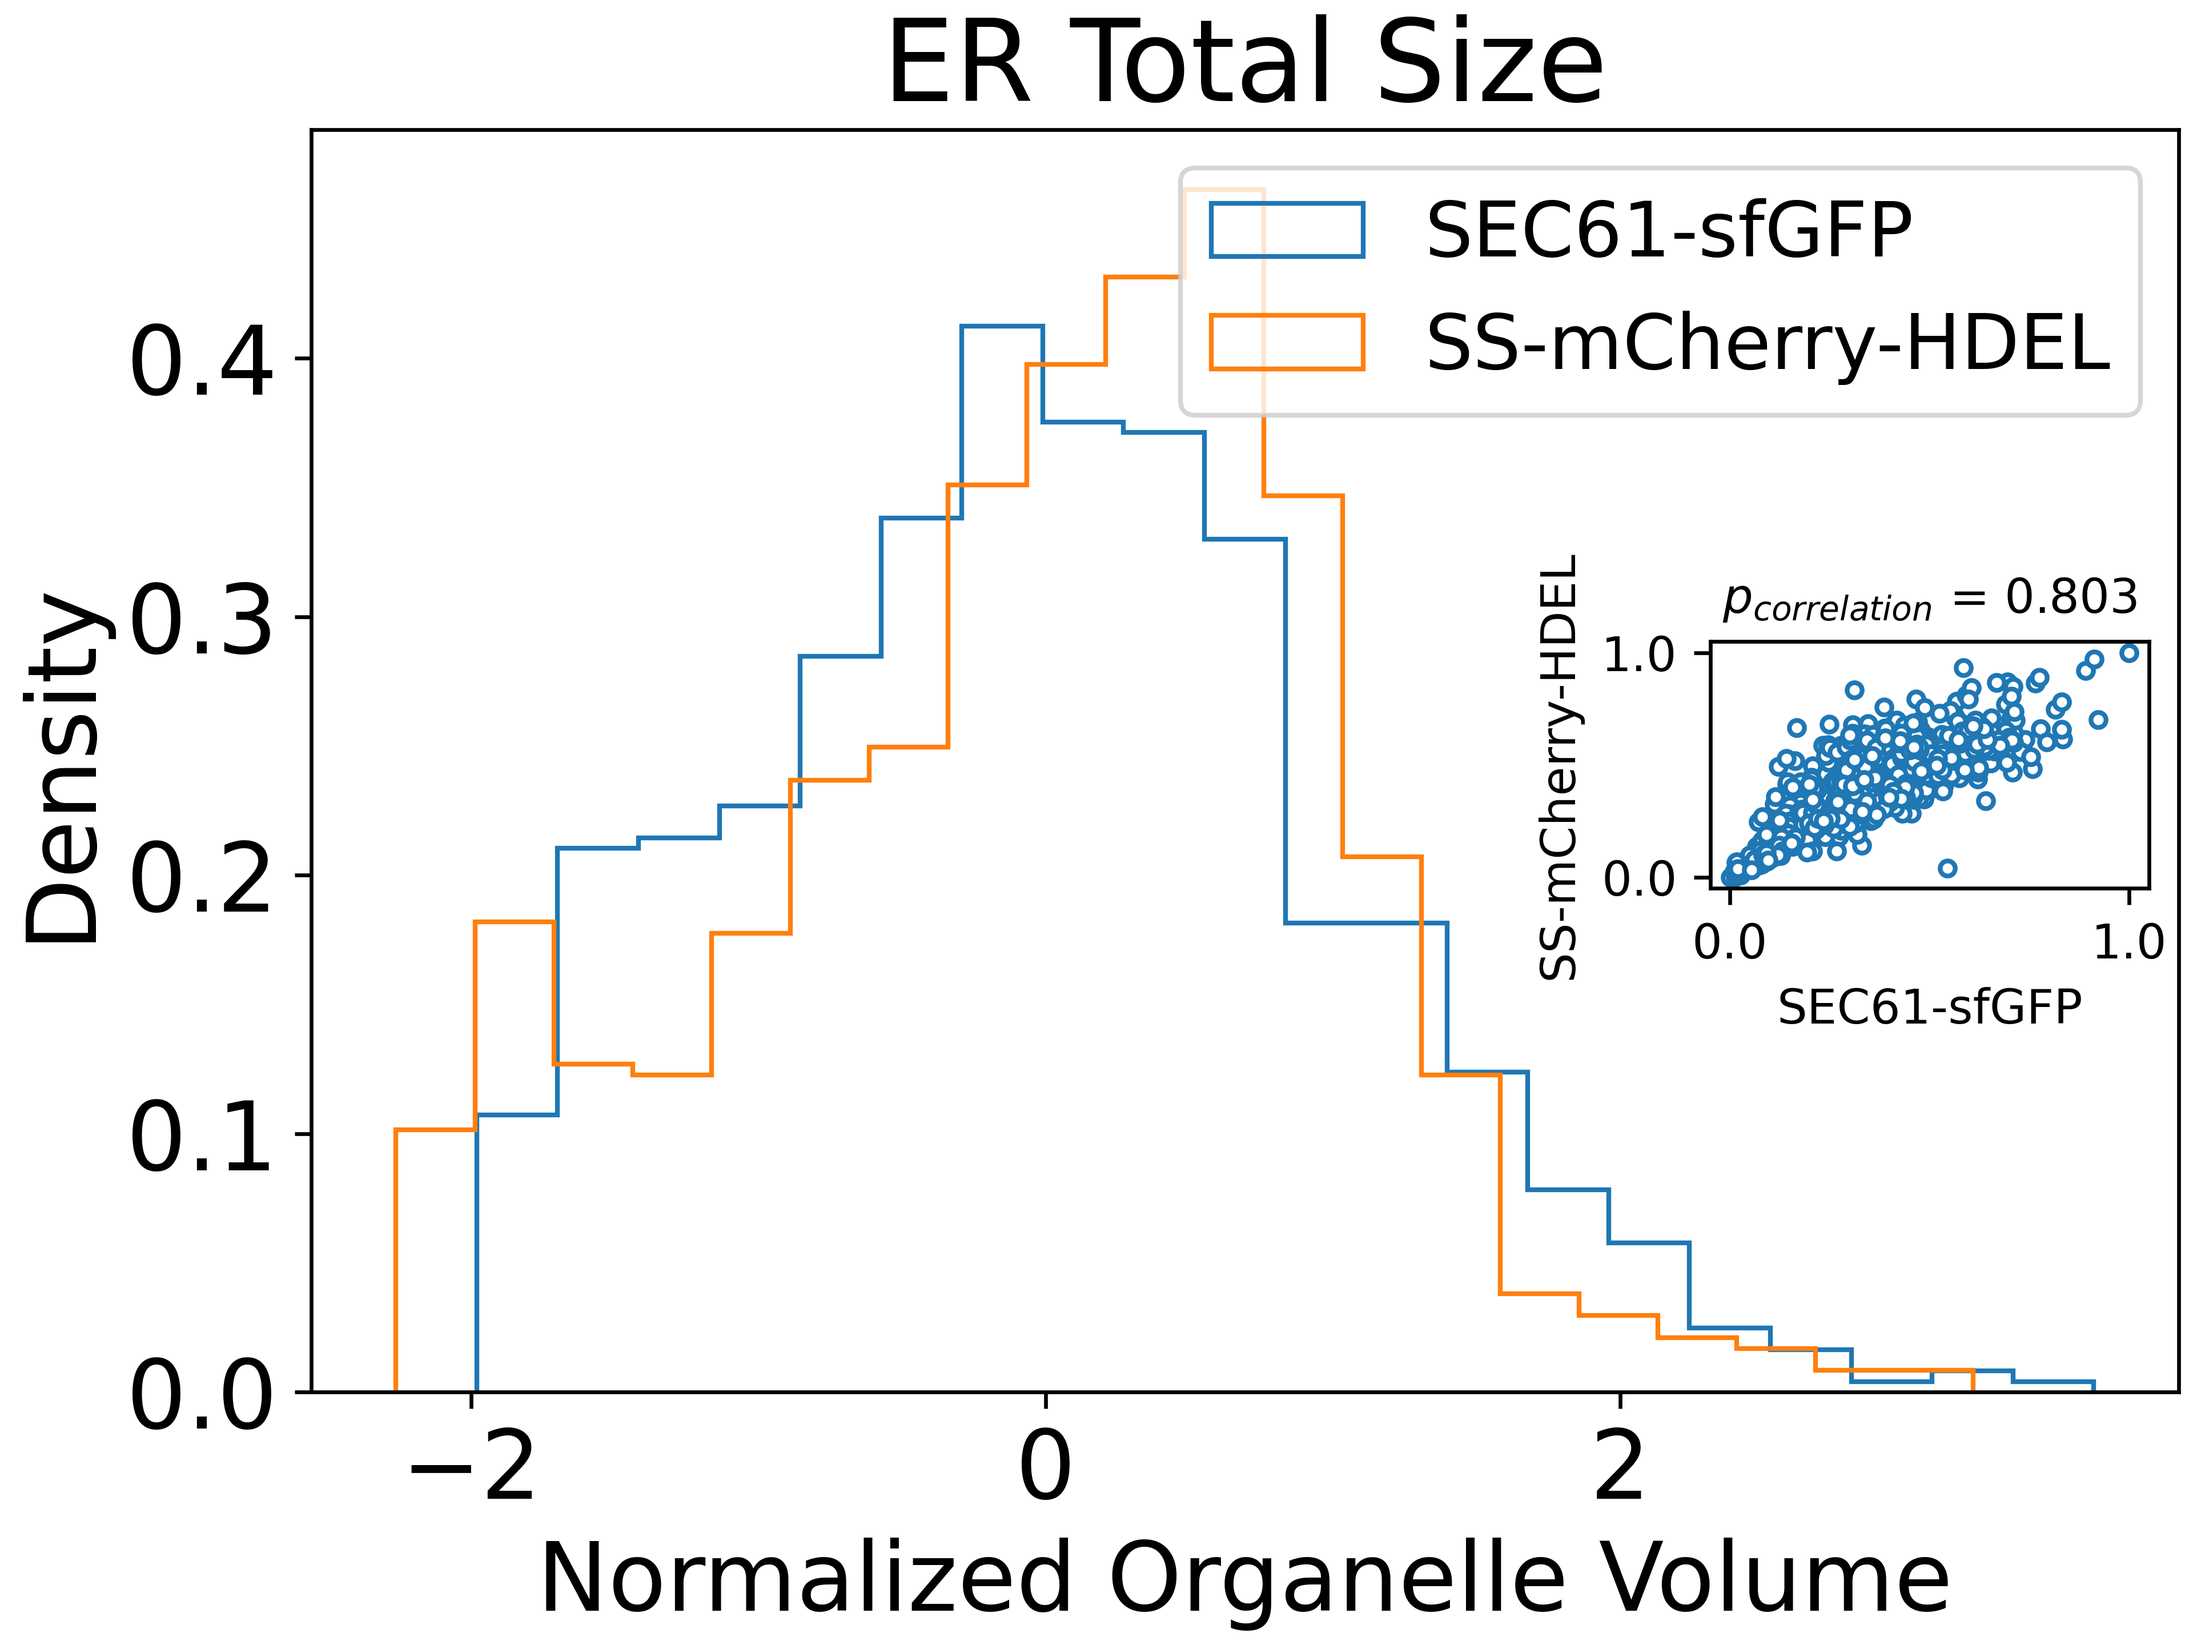
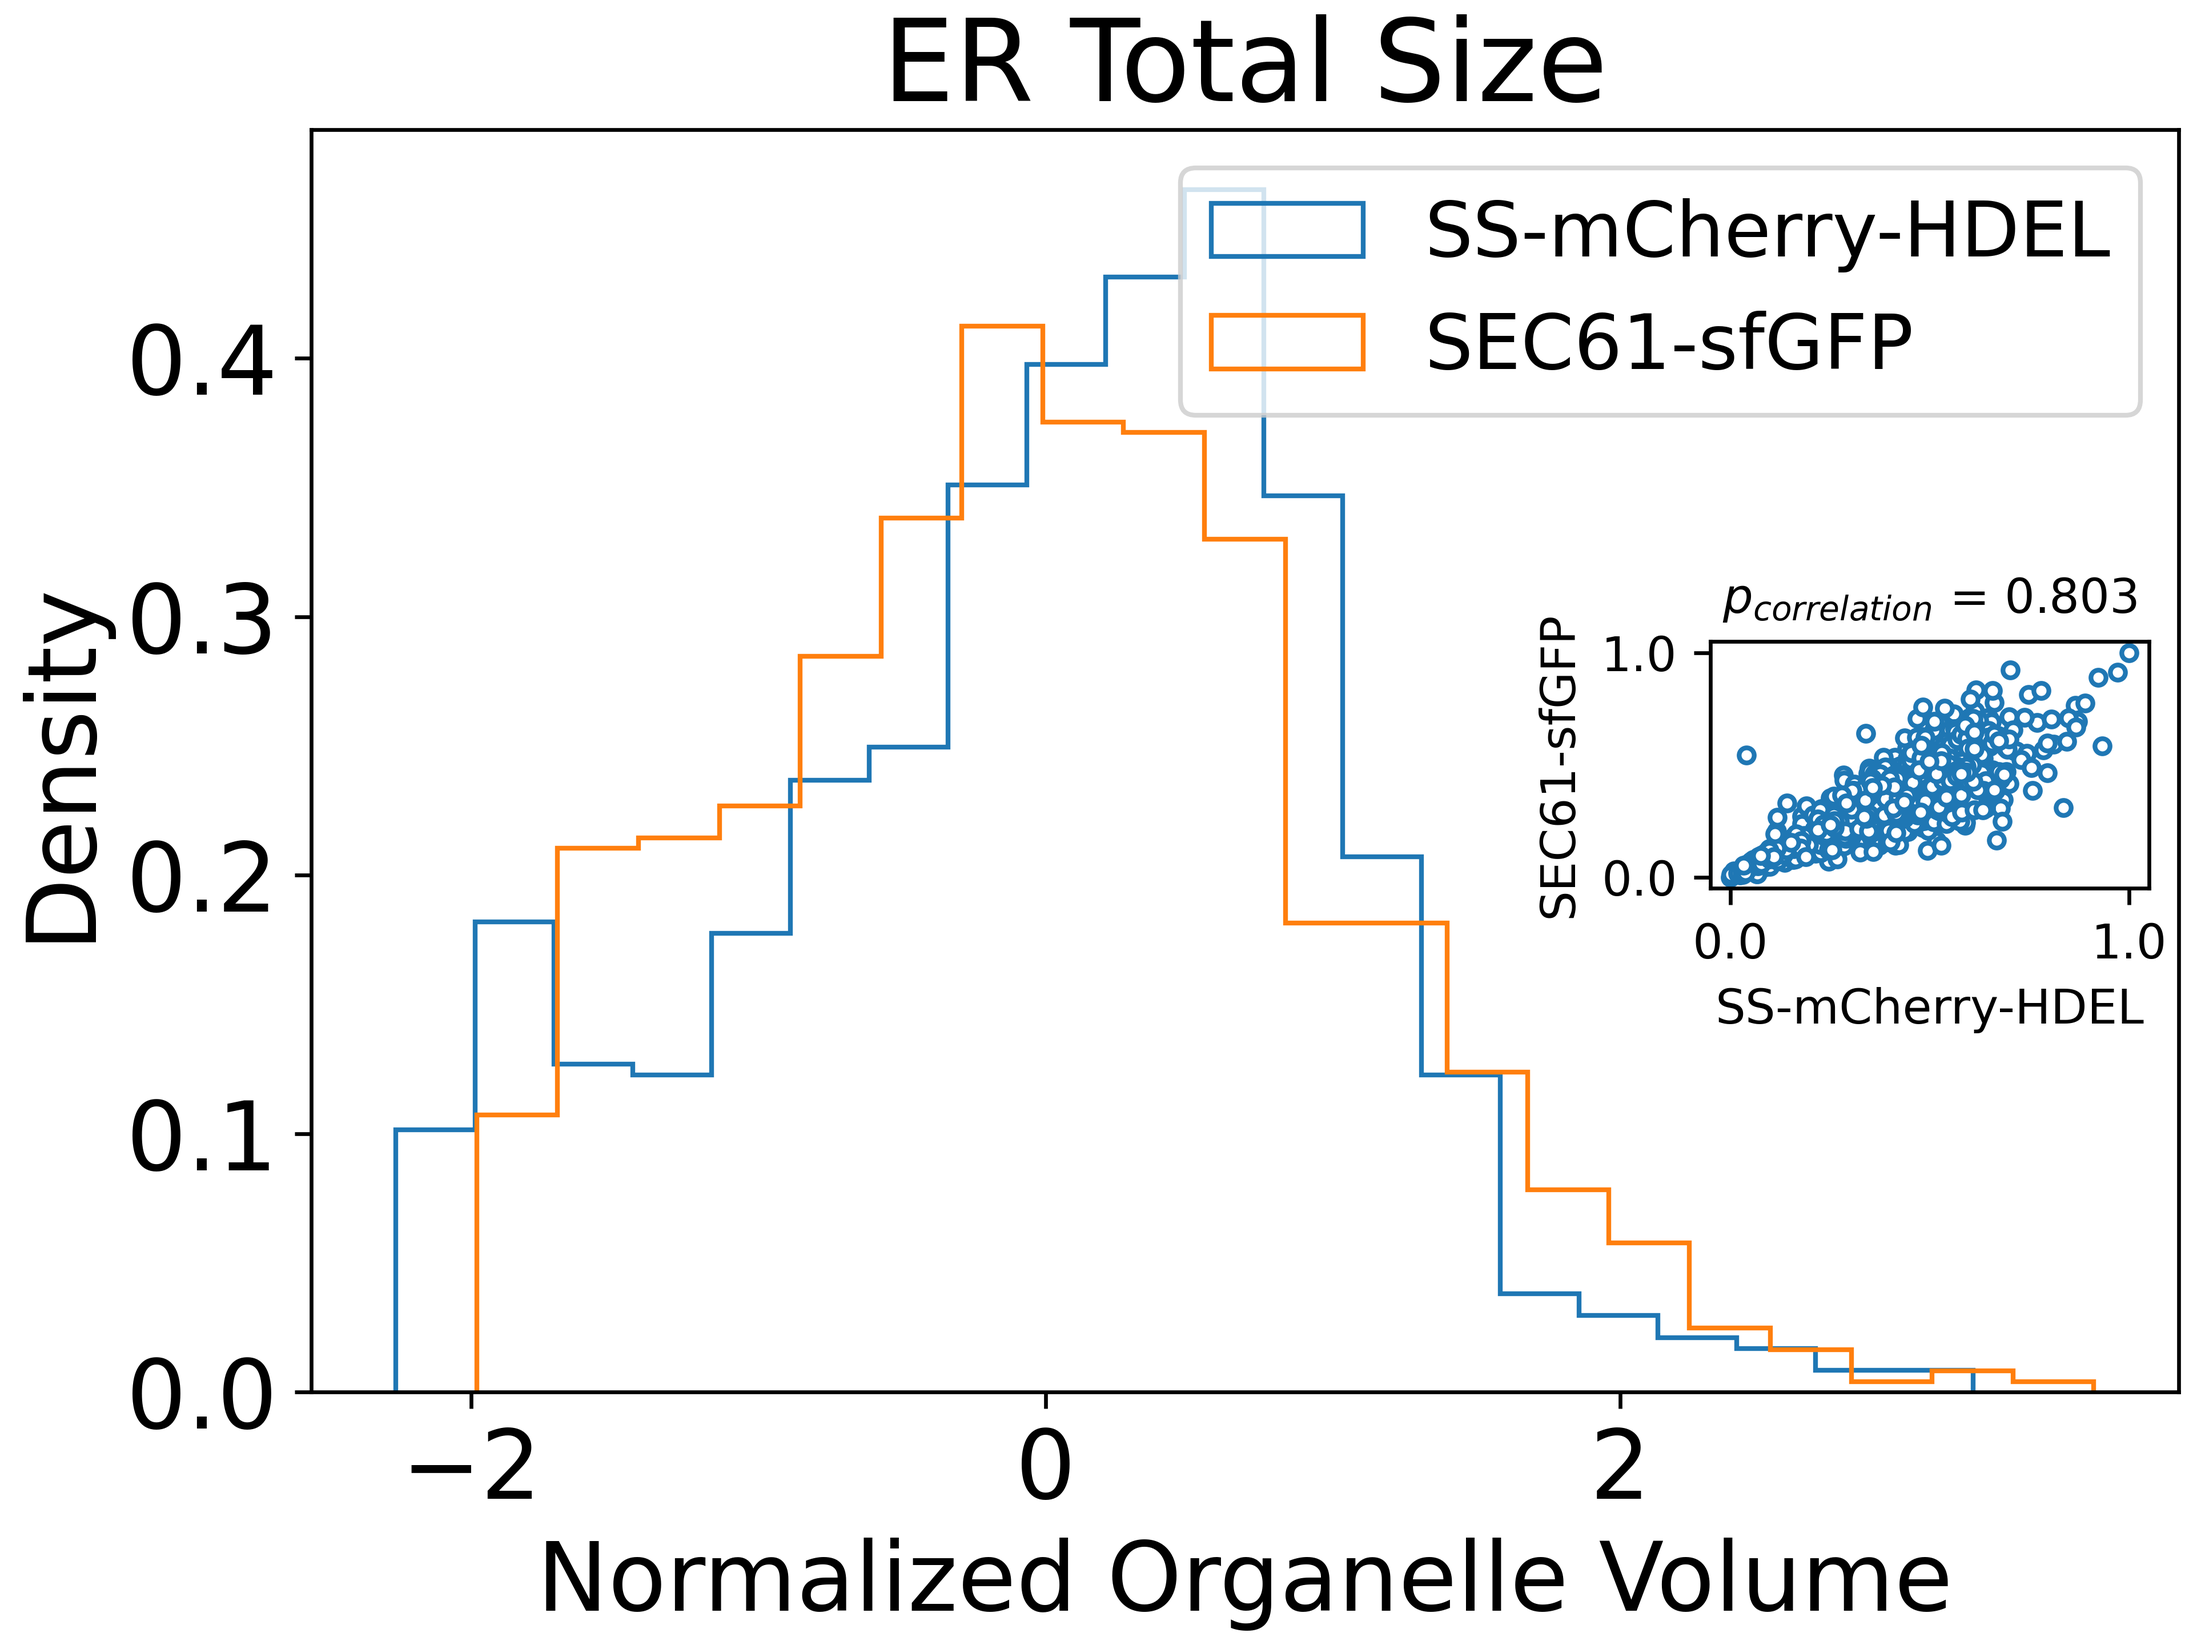
submit rebuttal

diff --git a/scripts/plot/csv2figures.py b/scripts/plot/csv2figures.py
@@ -1116,13 +1116,75 @@ import seaborn as sns
 #     dfs.append(df)
 # dfs = pd.concat(dfs,ignore_index=True)
 
-dfs = df_bycell.loc[df_bycell["folder"].eq("EYrainbow_glucose_largerBF") & df_bycell["organelle"].eq("ER"),["condition","cell-volume"]]
+dfs = df_bycell.loc[
+                    df_bycell["folder"].eq("EYrainbow_glucose_largerBF")
+                  & df_bycell["organelle"].eq("ER"),
+                    ["condition","cell-volume"]
+                ]
 dfs = dfs.reset_index().drop("index",axis=1)
 dfs["cell-volume"] = np.log(dfs["cell-volume"])
 for orga in [*organelles,"non-organelle"]:
-    dfs[orga] = np.log(df_bycell.loc[df_bycell["folder"].eq("EYrainbow_glucose_largerBF") & df_bycell["organelle"].eq(orga),"total"].reset_index().drop("index",axis=1))
+    dfs[orga] = np.log(
+                        df_bycell.loc[
+                                      df_bycell["folder"].eq("EYrainbow_glucose_largerBF") 
+                                    & df_bycell["organelle"].eq(orga),"total"
+                                ].reset_index().drop("index",axis=1)
+                    )
 dfs.replace([np.inf, -np.inf], np.nan, inplace=True)
 dfs.dropna(axis=0,inplace=True)
+
+x = dfs["non-organelle"].values.reshape(-1,1)
+y = dfs["cell-volume"].values
+fitter.fit(x,y)
+print("without exclusion", f"pooled" ,fitter.coef_, fitter.intercept_)
+# >>> without exclusion pooled [0.42146724] 3.5076067960600694
+dfs = dfs[dfs['non-organelle']>2]
+x = dfs["non-organelle"].values.reshape(-1,1)
+y = dfs["cell-volume"].values
+fitter.fit(x,y)
+print("with exclusion", f"pooled" ,fitter.coef_, fitter.intercept_)
+# >>> with exclusion pooled [0.50221085] 3.142924975964997
+
+x = dfs["non-organelle"].values
+y = dfs["cell-volume"].values
+res = scipy.odr.ODR(
+                    scipy.odr.Data(x,y),
+                    scipy.odr.unilinear
+                ).run().beta[0]
+print("without exclusion", f"symmetric" , res)
+# >>> without exclusion symmetric 0.45422110021931483
+threhold1 = np.percentile(dfs['non-organelle'],10) 
+threhold2 = np.percentile(dfs['cell-volume'],10) 
+dfs = dfs[dfs['non-organelle']>threhold1]
+dfs = dfs[dfs['cell-volume']>threhold2]
+x = dfs["non-organelle"].values
+y = dfs["cell-volume"].values
+res = scipy.odr.ODR(
+                    scipy.odr.Data(x,y),
+                    scipy.odr.unilinear
+                ).run().beta[0]
+print("with exclusion", f"symmetric" , res)
+
+
+fitter = LinearRegression()
+for cond in np.sort(dfs["condition"].unique()):
+    x = dfs.loc[dfs["condition"].eq(cond),"non-organelle"].values.reshape(-1,1)
+    y = dfs.loc[dfs["condition"].eq(cond),"cell-volume"].values
+    fitter.fit(x,y)
+    print("with exclusion", f"{cond*2/100}% glucose" ,fitter.coef_, fitter.intercept_)
+# >>> without exclusion 0.0% glucose [0.36748129] 3.8123584248286857
+# >>> without exclusion 0.01% glucose [0.48904931] 3.1963293062829417
+# >>> without exclusion 0.1% glucose [0.45168254] 3.447715116047131
+# >>> without exclusion 1.0% glucose [0.65527128] 2.2475956042518463
+# >>> without exclusion 2.0% glucose [0.6174451] 2.477665894757461
+# >>> without exclusion 4.0% glucose [0.66546864] 2.260198088347158
+# >>> 
+# >>> with exclusion 0.0% glucose [0.44245338] 3.4978532063642183
+# >>> with exclusion 0.01% glucose [0.61766572] 2.607062652666553
+# >>> with exclusion 0.1% glucose [0.57374911] 2.913059839803107
+# >>> with exclusion 1.0% glucose [0.708232] 1.988237369816059
+# >>> with exclusion 2.0% glucose [0.69546985] 2.1050524593477573
+# >>> with exclusion 4.0% glucose [0.66886946] 2.243887408369273
 
 df_scambled = dfs[dfs["condition"].eq(100)]
 df_scambled["cell-volume"] = np.random.permutation(df_scambled["cell-volume"])

diff --git a/scripts/rebuttal/csv2figures_2label1organelle.py b/scripts/rebuttal/csv2figures_2label1organelle.py
@@ -35,6 +35,15 @@ df_orga = pd.concat(
 df_cell.loc[:,"effective-volume"] = (px_x*px_y)*np.sqrt(px_x*px_y)*(2.)*df_cell.loc[:,"area"]*np.sqrt(df_cell.loc[:,"area"])/np.sqrt(np.pi) 
 pivot_cell_bycell = df_cell.set_index(["organelle","field","idx-cell"])
 
+# for organelle in organelles:
+# 	print(organelle, len(df_cell[df_cell['organelle'].eq(organelle)]))
+# >>> PX 662
+# >>> VO 840
+# >>> ER 870
+# >>> GL 363
+# >>> MT 661
+# >>> LD 230
+
 
 df_orga["volume-micron"] = np.empty_like(df_orga.index)
 df_orga.loc[df_orga["organelle"].eq("VO"),"volume-micron"] = (px_x*px_y)*np.sqrt(px_x*px_y)*(2.)*df_orga.loc[df_orga["organelle"].eq("VO"),"volume-pixel"]*np.sqrt(df_orga.loc[df_orga["organelle"].eq("VO"),"volume-pixel"])/np.sqrt(np.pi) 
@@ -76,16 +85,16 @@ organelle_names = {
 }
 fluorescence_names = {
     "PX": {
-        "DAPI": "mTagBFP2-SKL",
         "FITC": "PEX1-2GFP",
+        "DAPI": "mTagBFP2-SKL",
     },
     "VO": {
-        "CFP" : "VPH1-mTFP1",
         "FITC": "GFP-PHO8",
+        "CFP" : "VPH1-mTFP1",
     },
     "ER": {
-        "FITC" : "SEC61-sfGFP",
         "TRITC": "SS-mCherry-HDEL",
+        "FITC" : "SEC61-sfGFP",
     },
     "GL": {
         "TRITC": "CHS5-mCherry",
@@ -123,7 +132,7 @@ for organelle in organelles:
         # 				  "mean"
         # 				]
     
-    cameras = list(dict_totals.keys())
+    cameras = list(fluorescence_names[organelle].keys())
     array_totals = np.vstack((dict_totals[cameras[0]],dict_totals[cameras[1]]))
     if organelle=="VO":
         array_totals[array_totals==0] = np.nan

diff --git a/scripts/plot/csv2figures_paperRebuttal.py b/scripts/plot/csv2figures_paperRebuttal.py
@@ -31,7 +31,18 @@ exp_folder  = [experiments[i] for i in exp_names]
 extremes    = {"paperRebuttal": [0.,    100.]}
 list_colors = {"rebuttal": [1,2,3,4,0,5]}
 
-df_bycell = read_results(Path("./data/results"),subfolders,(px_x,px_y,px_z))
+df_bycell = read_results(Path("./data"),subfolders,(px_x,px_y,px_z))
+
+# for condi in np.sort(df_bycell['condition'].unique()):
+# 	print(f"{condi*2/100}%",len(df_bycell[df_bycell['condition'].eq(condi) & df_bycell['organelle'].eq("vacuole")]))
+# >>> 0.0% 1041
+# >>> 0.01% 2487
+# >>> 0.1% 1217
+# >>> 1.0% 1992
+# >>> 2.0% 1253
+# >>> 4.0% 1042
+
+
 
 # DATAFRAME FOR CORRELATION COEFFICIENT
 pv_bycell = df_bycell.set_index(['folder','condition','field','idx-cell'])

diff --git a/scripts/rebuttal/compare_diploids_v1/compare_dipoids_crossValid2_sameParamAs6.py b/scripts/rebuttal/compare_diploids_v1/compare_dipoids_crossValid2_sameParamAs6.py
@@ -94,6 +94,14 @@ bycell_1segmented_by1["count"]     = df_1segmented_by1[["organelle","field","cel
 bycell_1segmented_by1["volume-fraction"] = bycell_1segmented_by1["total-um3"] / bycell_1segmented_by1["cell-volume-um3"]
 bycell_1segmented_by1.reset_index(inplace=True)
 
+# for organelle in organelles:
+# 	print(organelle, len(bycell_1segmented_by1[bycell_1segmented_by1['organelle'].eq(organelle)]))
+# >>> peroxisome 202
+# >>> vacuole 403
+# >>> ER 518
+# >>> golgi 433
+# >>> mitochondria 275
+# >>> LD 356
 
 # # 6-color cells segmented by 1-color ilastik
 # dfs_read = []
